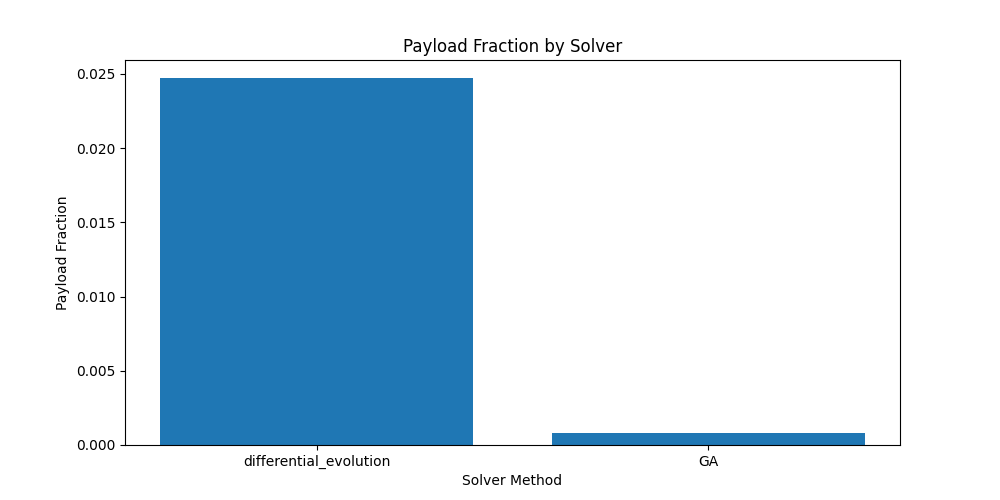
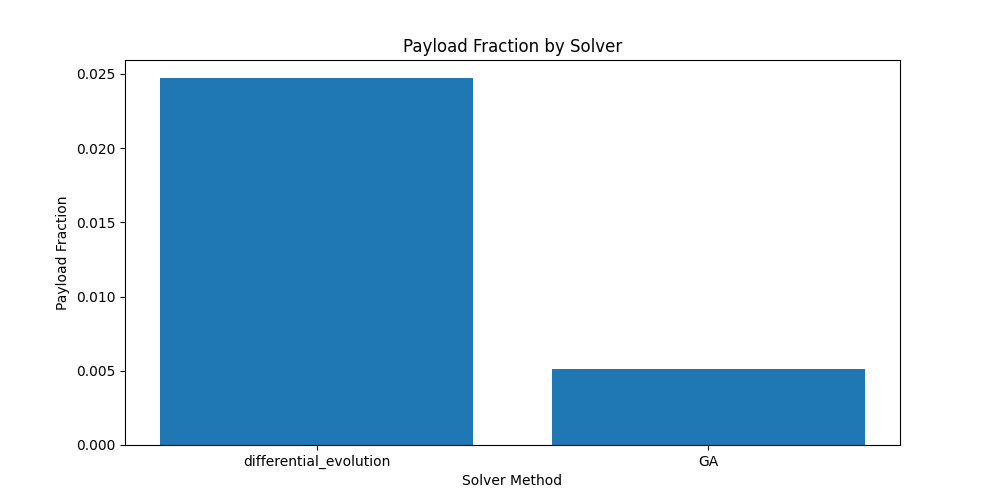
added better delta V plot

Changed region(s): [[0.527, 0.72, 0.868, 0.87]]

diff --git a/Stage_Opt/payload_optimization.py b/Stage_Opt/payload_optimization.py
@@ -261,6 +261,51 @@ def main():
     plt.savefig('payload_fraction.png')
     plt.close()
 
+    # Plot the ΔV breakdown (including drag and gravity losses) and display it.
+    plot_dv_breakdown(results, TOTAL_DELTA_V, GRAVITY_LOSS, DRAG_LOSS, filename="dv_breakdown.png")
+
+
+
+def plot_dv_breakdown(results, total_delta_v, gravity_loss, drag_loss, filename="dv_breakdown.png"):
+    """
+    Plot the engine-provided ΔV breakdown per solver, including drag and gravity losses.
+    Labels each bar with the stage ratio and total delta-V.
+    """
+    solver_names = [res["method"] for res in results]
+    indices = np.arange(len(solver_names))
+    bar_width = 0.4
+
+    required_engine_dv = total_delta_v + gravity_loss + drag_loss
+    colors = ['dodgerblue', 'orange', 'green', 'purple', 'cyan', 'magenta']
+
+    plt.figure(figsize=(12, 6))
+
+    for i, res in enumerate(results):
+        sol = res["dv"]  # The allocated ΔV per stage.
+        ratios = res["ratio"]  # Stage ratios
+        cumulative = 0
+
+        for j, (dv, ratio) in enumerate(zip(sol, ratios)):
+            plt.bar(i, dv, bar_width, bottom=cumulative, color=colors[j % len(colors)], 
+                    label=f'Stage {j+1}' if i == 0 else "")
+            cumulative += dv
+            plt.text(i, cumulative - dv / 2, f"{dv:.1f} m/s\n({ratio:.2f})", 
+                     ha='center', va='center', fontsize=9, color='white', fontweight='bold')
+
+        plt.text(i, cumulative + 50, f"Total: {cumulative:.0f} m/s", 
+                 ha='center', va='bottom', fontsize=10, fontweight='bold')
+
+    plt.axhline(required_engine_dv, color='red', linestyle='--', linewidth=2, label='Required Engine ΔV')
+
+    plt.xticks(indices, solver_names)
+    plt.ylabel("Engine-Provided ΔV (m/s)")
+    plt.title("ΔV Breakdown per Solver")
+    plt.legend()
+    plt.tight_layout()
+    plt.savefig(filename)
+    plt.close()
+
+
     # Print all the results to the console in a neat format.
     print("\nOptimization Results:")
     for result in results:
@@ -306,8 +351,6 @@ Method & Time (s) & Payload Fraction \\
 \end{document}
 """)
     
-    # Plot the ΔV breakdown (including drag and gravity losses) and display it.
-    plot_dv_breakdown(results, TOTAL_DELTA_V, GRAVITY_LOSS, DRAG_LOSS, filename="dv_breakdown.png")
 
 if __name__ == '__main__':
     main()

diff --git a/Stage_Opt/report.tex b/Stage_Opt/report.tex
@@ -16,8 +16,8 @@
 \hline
 Method & Time (s) & Payload Fraction \\
 \hline
-differential_evolution & 9.4996 & 0.0247 \\
-GA & 0.9544 & 0.0008 \\
+differential_evolution & 10.1128 & 0.0247 \\
+GA & 0.9819 & 0.0051 \\
 
 \hline
 \end{tabular}
